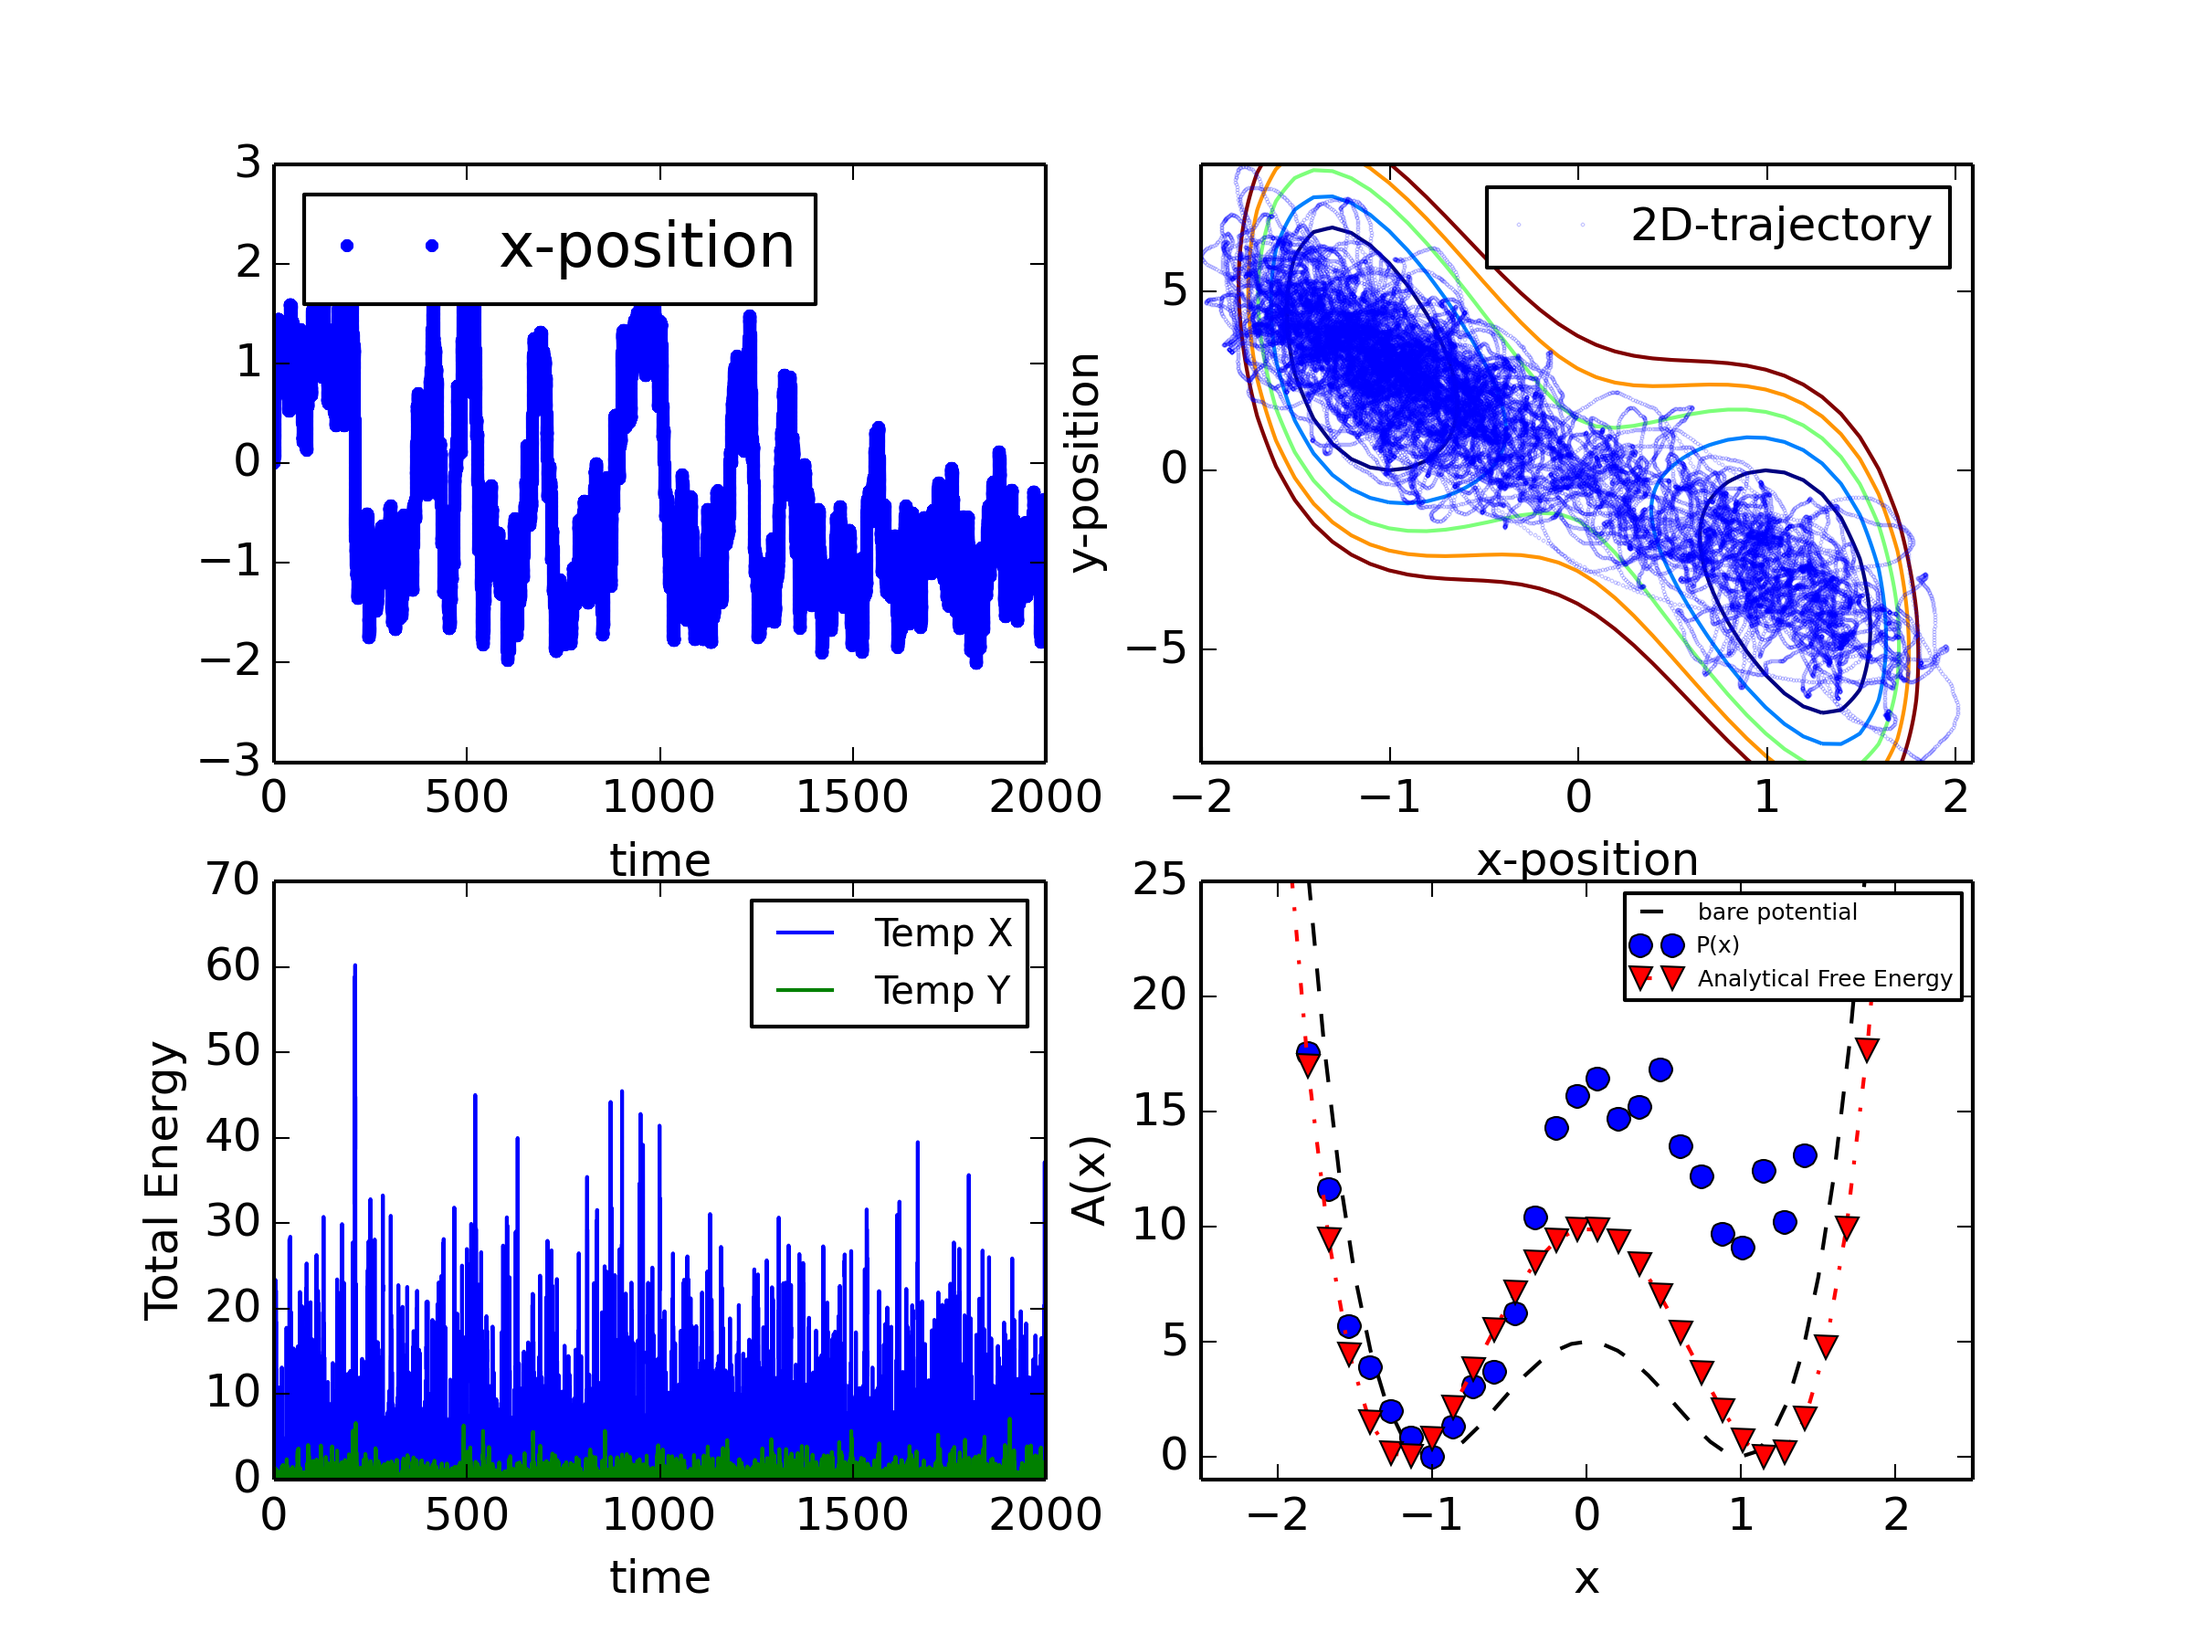
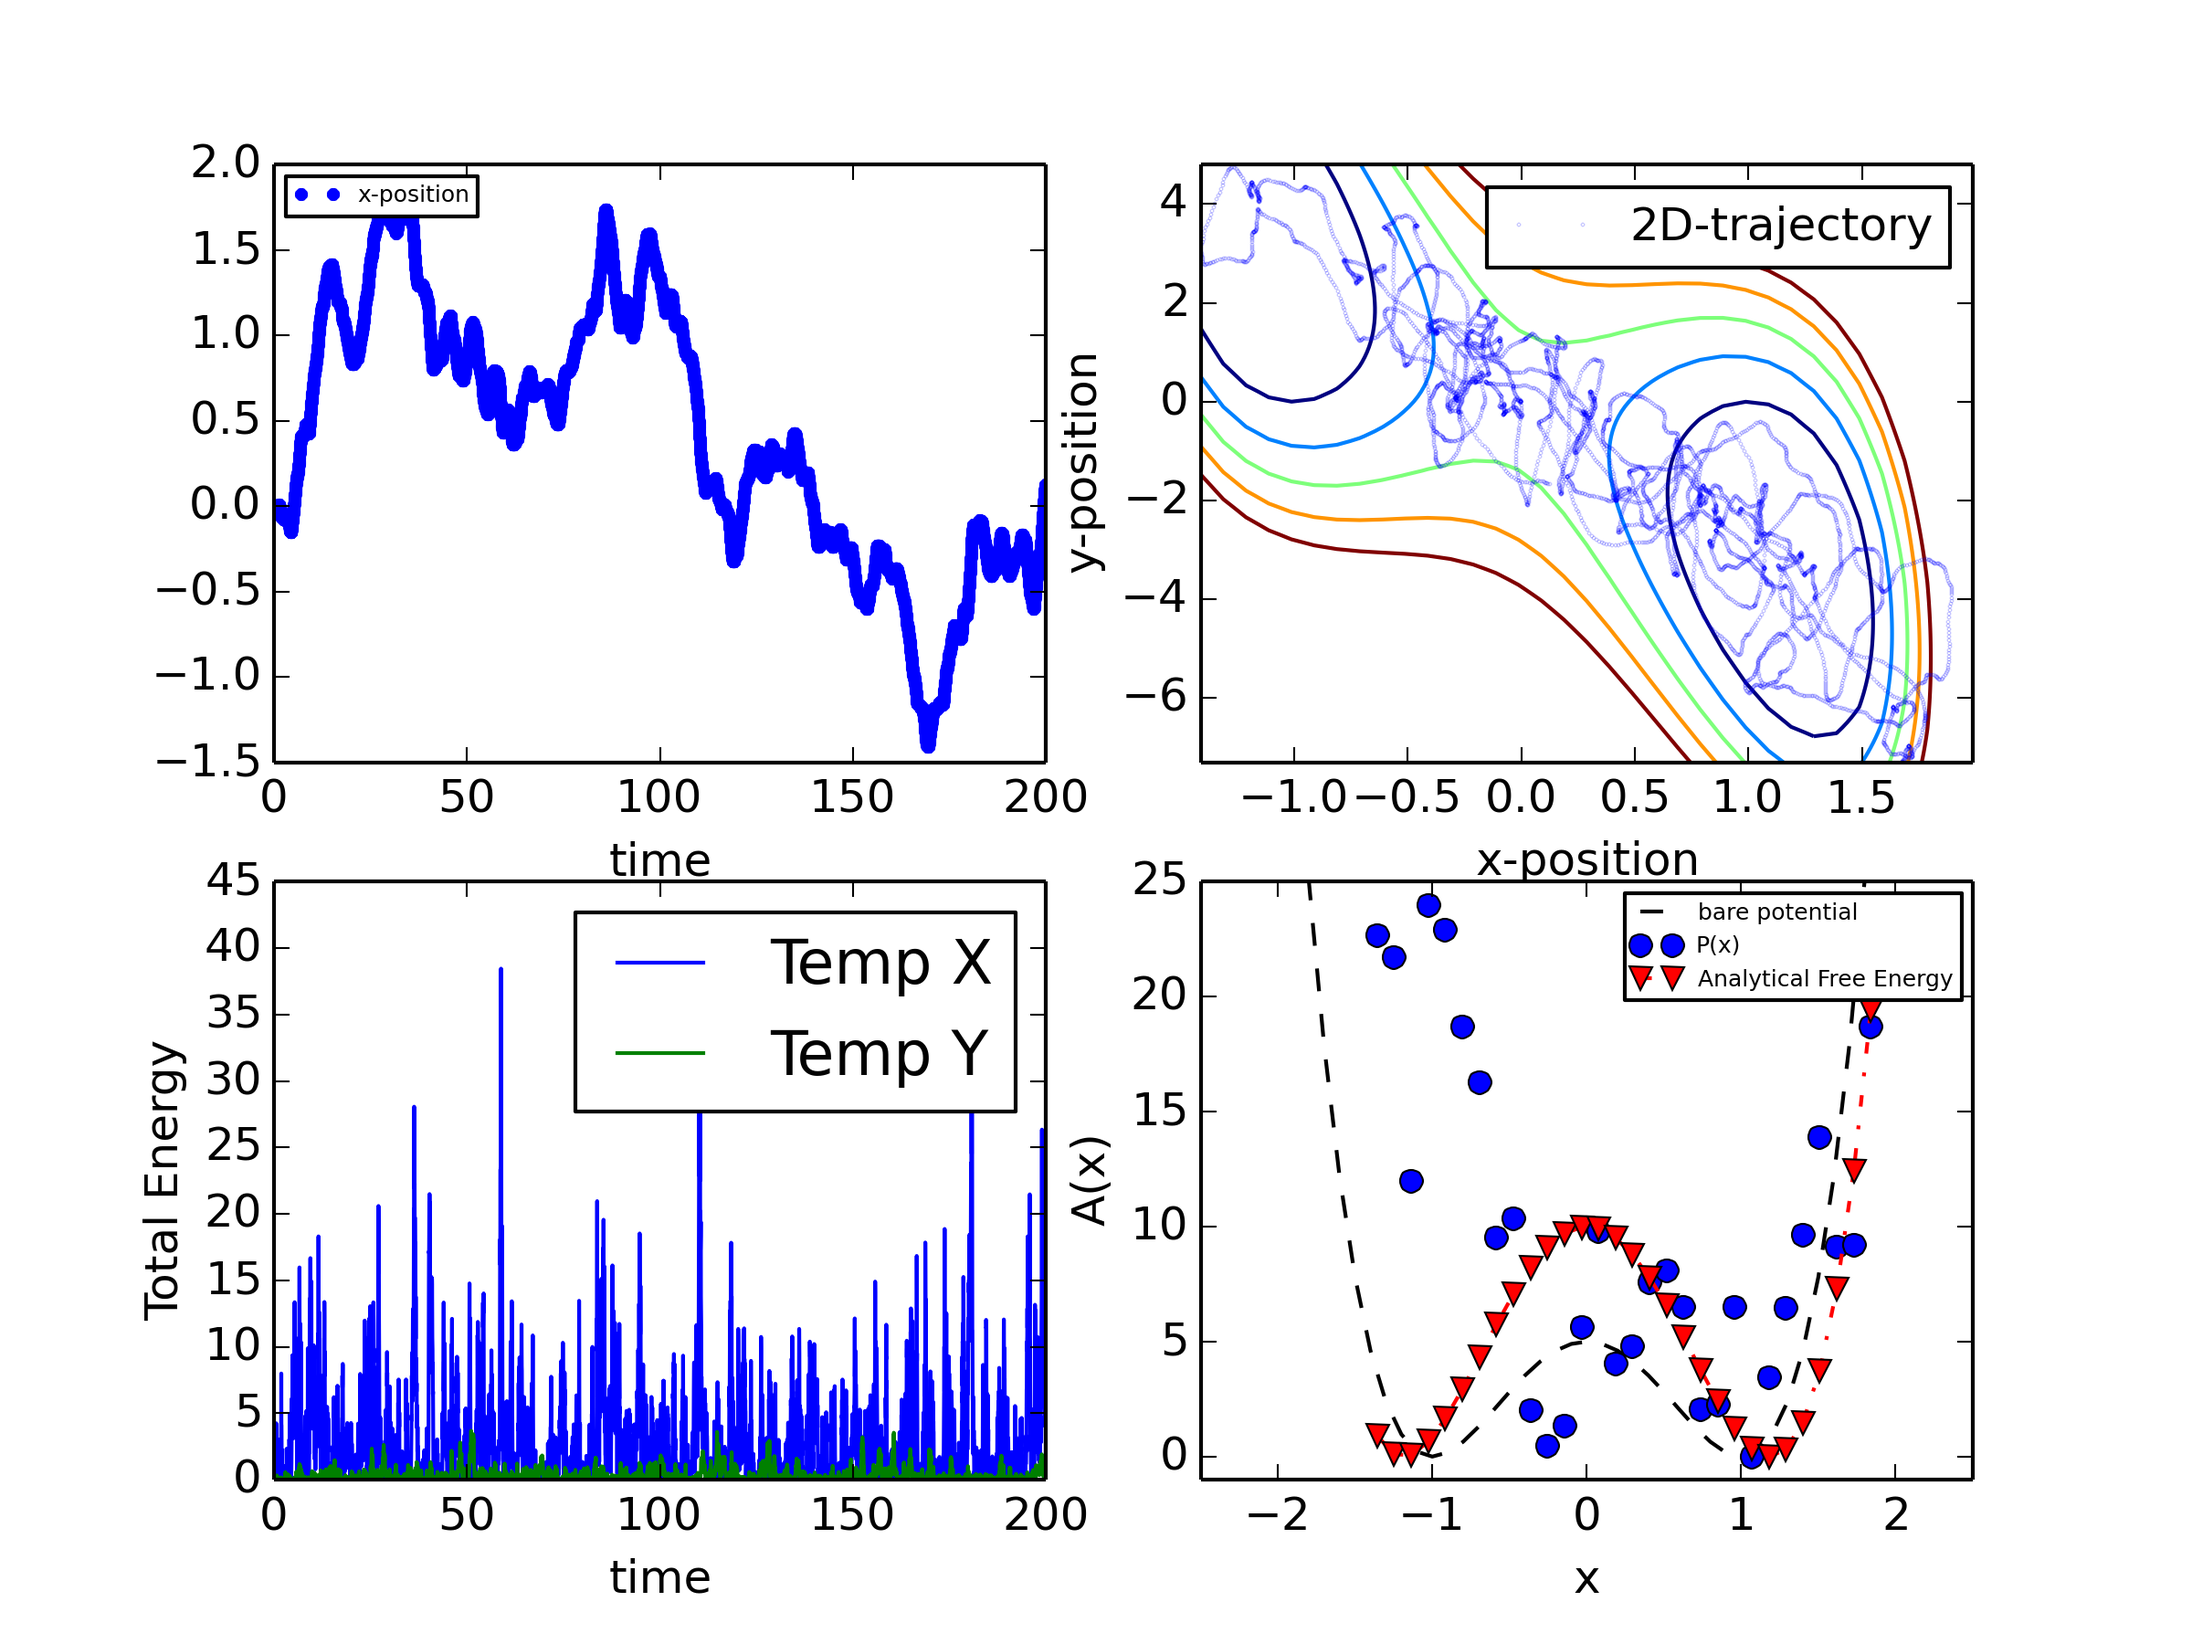
minor updates

diff --git a/AFED_2D_double_well.py b/AFED_2D_double_well.py
@@ -307,13 +307,13 @@ my_d0=5.0
 my_a=1.0
 my_k=1.0
 my_lamb= 2.878   # if I set this to zero I will decouple x and y
-my_max_time =  2000 # 2000 # 1000
+my_max_time =  200 # 2000 # 1000
 initial_position_x = 0.0
 initial_position_y = 0.0
 initial_velocity_x = 0.0
 initial_velocity_y = 0.0
 
-massx=300 # 500.0 # 300.0
+massx=400 # 500.0 # 300.0
 massy=1.0
 my_gammax=1.0
 my_gammay=1.0
@@ -349,7 +349,7 @@ axes[0, 0].plot(times,x_positions,marker='.',label='x-position',linestyle='',mar
 # axes[0, 0].plot(times,x_velocities,marker='',label='x-velocity',linestyle='-')
 # axes[0, 0].plot(times,y_velocities,marker='',label='y-velocity',linestyle='-')
 axes[0, 0].set_xlabel('time')
-axes[0, 0].legend(loc=2,prop={'size':16})
+axes[0, 0].legend(loc=2,prop={'size':6})
 
 
 # draw contour for the energy 
@@ -391,7 +391,7 @@ axes[1, 0].plot(times,temps_x,marker='',linestyle='-',label='Temp X')
 axes[1, 0].plot(times,temps_y,marker='',linestyle='-',label='Temp Y')
 axes[1, 0].set_xlabel('time')
 axes[1, 0].set_ylabel("Total Energy")
-axes[1, 0].legend(loc=1,prop={'size':10})
+axes[1, 0].legend(loc=1,prop={'size':16})
 
 
 # ---------------------------------
